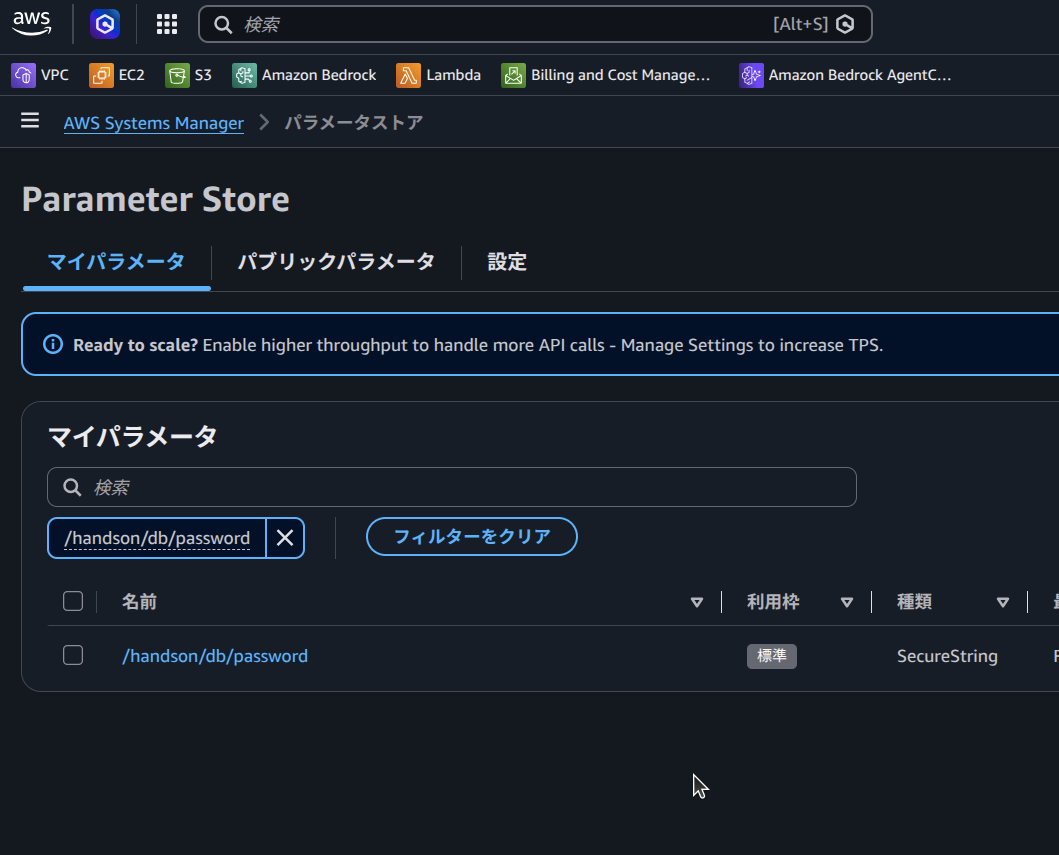
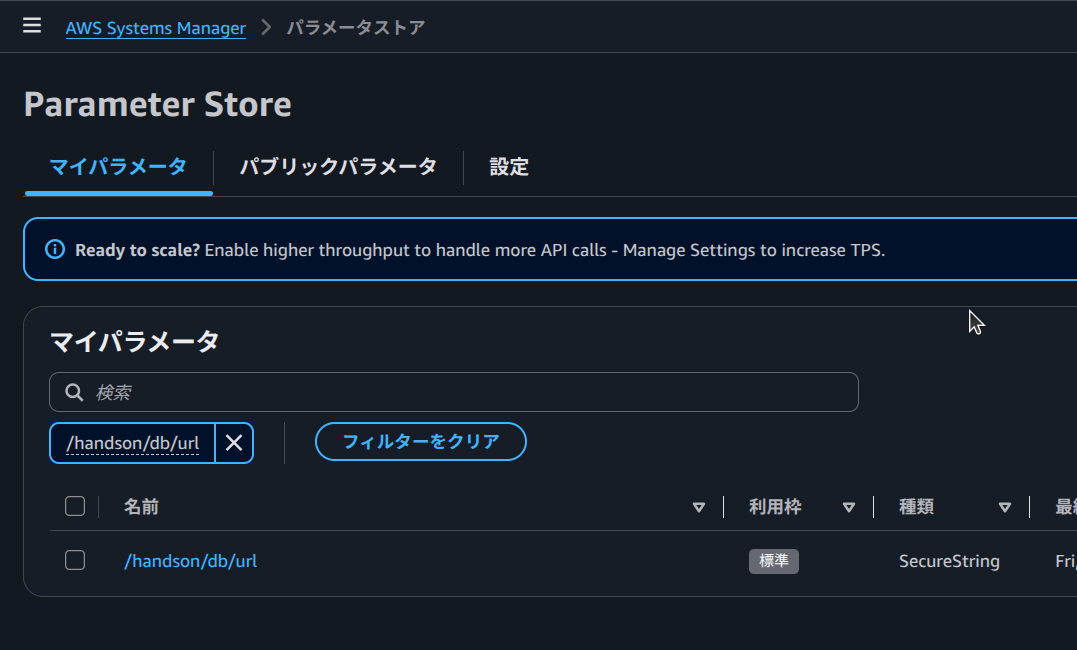
docs: ecsデプロイ 05パラメータストア統一

diff --git a/docs/study/AWS-ecs-on-fargate学習/ECS Fargate ハンズオン.dc.html b/docs/study/AWS-ecs-on-fargate学習/ECS Fargate ハンズオン.dc.html
@@ -2950,7 +2950,8 @@
                         style="color: #e6edf3"
                         >この画面で確認できるのは今だけ<br /> </strong
                       >（再表示不可。忘れるとパスワードリセット＝再起動が必要になる）。<br />
-                      控えたら、その場でParameter Storeに登録する。
+                      控えたら、その場でアプリが使う接続URL（パスワードとエンドポイントを埋め込んだもの）をParameter
+                      Storeに登録する。
                     </div>
                     <div
                       style="
@@ -3022,8 +3023,8 @@
                           'IBM Plex Mono', 'SF Mono', Menlo, Consolas, monospace;
                       "
                     ><code>aws ssm put-parameter \
-  --name "/handson/db/password" \
-  --value "&lt;控えたマスターパスワード&gt;" \
+  --name "/handson/db/url" \
+  --value "postgresql://appuser:&lt;控えたマスターパスワード&gt;@&lt;控えたエンドポイント&gt;:5432/appdb" \
   --type SecureString</code></pre>
 
                     <div
@@ -3050,7 +3051,7 @@
                         >
                         — <code>{"Version": 1, "Tier": "Standard"}</code>
                         のようなJSONが返り、
-                        <code>/handson/db/password</code>
+                        <code>/handson/db/url</code>
                         という名前でSecureString（暗号化済み）のパラメータが登録される。<br />
                         中身はパラメータストアの画面（5章）で確認可能（値は「表示」を押すまでマスクされる）。
                       </div>
@@ -3065,7 +3066,35 @@
                       "
                     >
                       <img
+                        src="../../images/aws/deploy/貼り付けられた画像%20(41).png"
+                        style="width: 100%; height: auto; display: block"
+                      />
+                    </div>
+                    <div
+                      style="
+                        margin: 24px 0;
+                        padding: 18px;
+                        background: #ffffff;
+                        border: 1px solid #1c2836;
+                        border-radius: 13px;
+                      "
+                    >
+                      <img
                         src="../../images/aws/deploy/貼り付けられた画像%20(37).png"
+                        style="width: 100%; height: auto; display: block"
+                      />
+                    </div>
+                    <div
+                      style="
+                        margin: 24px 0;
+                        padding: 18px;
+                        background: #ffffff;
+                        border: 1px solid #1c2836;
+                        border-radius: 13px;
+                      "
+                    >
+                      <img
+                        src="../../images/aws/deploy/貼り付けられた画像%20(42).png"
                         style="width: 100%; height: auto; display: block"
                       />
                     </div>
@@ -3205,8 +3234,9 @@
                 DBのパスワードを<strong style="color: #e6edf3"
                   >コードや設定ファイルに直書きしない</strong
                 >のが実務の鉄則。<br />
-                Systems Manager
-                の「パラメータストア」に保存し、7章でECSタスクに環境変数として注入します。
+                接続URLは4章でCloudShellからSystems
+                Managerの「パラメータストア」に登録済み。<br />
+                この章では登録内容をコンソールで確認し、SecureStringの仕組みを理解します。値は7章でECSタスクに環境変数として注入します。
               </p>
 
               <div
@@ -3243,7 +3273,7 @@
                   margin: 30px 0 4px;
                 "
               >
-                手順 — 接続URLを保存（passwordは4章でCloudShellから登録済み）
+                手順 — 4章で登録した接続URLを確認する
               </h3>
               <div
                 style="
@@ -3305,22 +3335,12 @@
                       ><span
                         style="
                           padding: 3px 9px;
-                          background: #0a1119;
-                          border: 1px solid #24323f;
-                          border-radius: 6px;
-                          color: #cdd9e5;
-                        "
-                        >パラメータストア</span
-                      ><span style="color: #5f6f7e">›</span
-                      ><span
-                        style="
-                          padding: 3px 9px;
                           background: rgba(255, 153, 0, 0.14);
                           border: 1px solid rgba(255, 153, 0, 0.3);
                           border-radius: 6px;
                           color: var(--accent, #ff9900);
                         "
-                        >パラメータの作成</span
+                        >パラメータストア</span
                       >
                     </div>
                     <div
@@ -3358,7 +3378,7 @@
                         color: #c3cdd7;
                       "
                     >
-                      CloudShellで登録したDBパスワードの登録（/handson/db/password）を確認する。
+                      4章でCloudShellから登録した接続URL（/handson/db/url）が一覧にあることを確認する。
                       <br />
                       <div
                         style="
@@ -3374,23 +3394,6 @@
                           style="width: 100%; height: auto; display: block"
                         />
                       </div>
-                      次に、アプリがDB接続に使う<strong
-                        style="color: #e6edf3"
-                        >接続URLを1本</strong
-                      >だけ作成します。<br />
-                      アプリ（Prisma）は
-                      <code
-                        style="
-                          font-family: 'IBM Plex Mono', monospace;
-                          background: #0a1119;
-                          padding: 1px 6px;
-                          border-radius: 5px;
-                          color: #e6b877;
-                        "
-                        >DATABASE_URL</code
-                      >
-                      1本で接続する作りなので、host / name / user
-                      を個別に分けず、接続URLごと保存する。<br />
                       7章でECSタスクにこの値を注入する。<br />
                     </div>
                     <div
@@ -3449,11 +3452,11 @@
                         color: #c3cdd7;
                       "
                     >
-                      タイプは「<strong style="color: #e6edf3"
+                      タイプが「<strong style="color: #e6edf3"
                         >SecureString</strong
-                      >」（KMSで暗号化）。値にパスワードが含まれるため、Stringにはしない。<br /><br />
+                      >」（KMSで暗号化）になっていることを確認する。値にパスワードが含まれるため、Stringにはしない。<br />
+                      値は「表示」を押すまでマスクされる。表示して、パスワードとエンドポイントを正しく埋め込めているか確認する。
                     </div>
-                    /handson/db/urlを作成。値は「postgresql://appuser:（4章のパスワード）@（4章で控えたRDSエンドポイント）:5432/appdb」。<br />
                     <div
                       style="
                         margin: 24px 0;
@@ -3464,7 +3467,7 @@
                       "
                     >
                       <img
-                        src="../../images/aws/deploy/貼り付けられた画像%20(44).png"
+                        src="../../images/aws/deploy/貼り付けられた画像%20(43).png"
                         style="width: 100%; height: auto; display: block"
                       />
                     </div>
@@ -3486,10 +3489,9 @@
                 <div
                   style="font-size: 13.5px; line-height: 1.75; color: #a8dab8"
                 >
-                  <strong style="color: #5fd685">実行するとこうなる</strong> —
-                  一覧に2つのパラメータ（4章のpassword +
-                  今回のurl）が並びます。<br />
-                  どちらもタイプは「SecureString」で、値は暗号化されて隠されます。<br />
+                  <strong style="color: #5fd685">確認できればOK</strong> —
+                  一覧に4章で登録した1つのパラメータが並びます。<br />
+                  タイプは「SecureString」で、値は暗号化されて隠されます。<br />
                   <div
                     style="
                       display: grid;
@@ -3499,15 +3501,6 @@
                       margin-top: 10px;
                     "
                   >
-                    <span
-                      style="
-                        color: #7c8b99;
-                        font-family: 'IBM Plex Mono', monospace;
-                        font-size: 11px;
-                      "
-                      >/handson/db/password</span
-                    ><span style="color: #8b98a5">SecureString</span
-                    ><span style="color: #e6edf3">4章で作成したパスワード</span>
                     <span
                       style="
                         color: #7c8b99;
@@ -3855,8 +3848,7 @@ REGISTRY=$ACCOUNT_ID.dkr.ecr.ap-northeast-1.amazonaws.com
 aws ecr get-login-password --region ap-northeast-1 | \
   docker login --username AWS --password-stdin $REGISTRY
 
-# Fargate(x86_64)向けにビルドする点に注意（Apple Silicon の人は必須）
-docker build --platform linux/amd64 -t $REGISTRY/handson-app:v1 .
+docker build -t $REGISTRY/handson-app:v1 .
 docker push $REGISTRY/handson-app:v1</code></pre>
               </div>
               <div style="margin: 14px 0">
@@ -6276,10 +6268,17 @@ curl http://handson-alb-xxxx.ap-northeast-1.elb.amazonaws.com/api/health
             ch4: [
               { id: 'c4a', label: 'RDS(PostgreSQL)を起動した' },
               { id: 'c4b', label: 'エンドポイントを控えた' },
+              {
+                id: 'c4d',
+                label: 'CloudShellで /handson/db/url を登録した',
+              },
               { id: 'c4c', label: '「パブリックアクセスなし」の意味を理解した' },
             ],
             ch5: [
-              { id: 'c5a', label: 'パラメータストアに /handson/db/url を保存した' },
+              {
+                id: 'c5a',
+                label: 'パラメータストアで /handson/db/url を確認した',
+              },
               { id: 'c5b', label: 'パスワードを含む値を SecureString にする理由を理解した' },
             ],
             ch6: [
